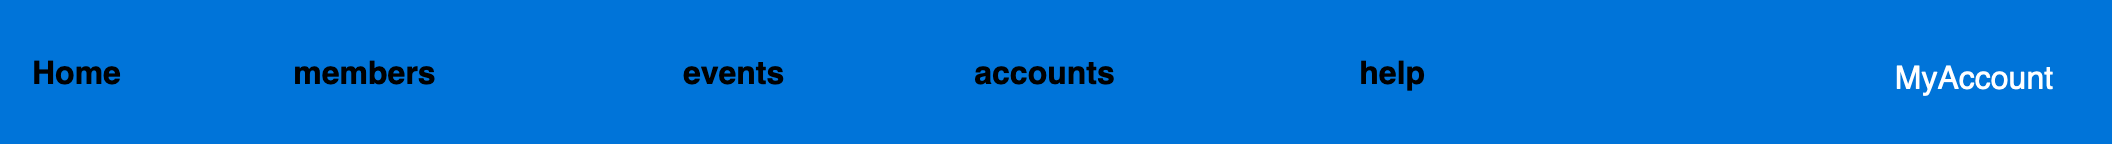
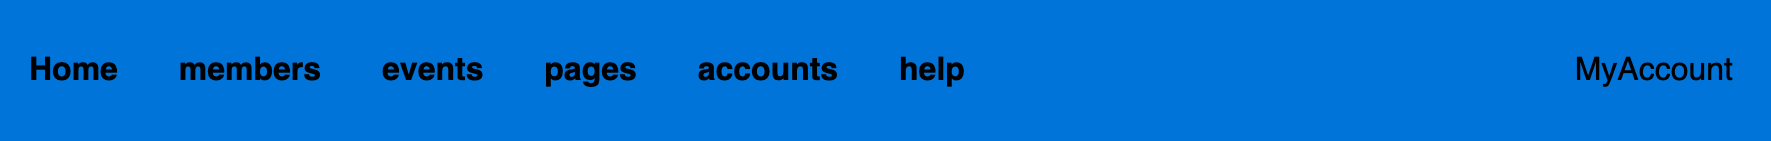
minor tweaks. Document Pages module

diff --git a/website.py b/website.py
@@ -97,15 +97,15 @@ def upcoming_events():
 		if event.AdCom_only and not (member and member.Access):
 			continue
 		attend = event_attend(event.id)
-		line = f"{event.DateTime.strftime('%A, %B %d ')} **[{event.Description}]({URL(f'event_page/{event.id}') if event.Details else event.Page})**"
+		line = f"{event.DateTime.strftime('%A, %B %d ')} **[{event.Description}]({URL(f'event_page/{event.id}') if event.Details else event.Page})**".strip()
 		if event.Booking_Closed<datetime.datetime.now(TIME_ZONE).replace(tzinfo=None):
 			if not attend:
-				line = f"{event.DateTime.strftime('%A, %B %d ')} **{event.Description}** *Save the Date*"
+				line = f"{event.DateTime.strftime('%A, %B %d ')} **{event.Description.strip()}** *Save the Date*"
 			else:
 				line += ' *Booking Closed, waitlisting*'
 		else:
 			url = URL(f"registration/{event.id}")
-			line+= f" [(register here)]({url})"
+			line+= f" register [here]({url})"
 			if event.Capacity and (attend or 0) >= event.Capacity:
 				line +=' *Sold Out, waitlisting*'
 		header = CAT(header, XML(markdown.markdown(line)[3:-4]+'<br>'))

diff --git a/utilities.py b/utilities.py
@@ -278,7 +278,7 @@ def pages_menu(forpage):
 	#build menu of pages for layout_public
 	#appropriate root level pages:
 	root = forpage.Root or forpage.id
-	pages = db(db.Pages.Parent==None).select(db.Pages.id, db.Pages.Page, db.Pages.Root, orderby=db.Pages.Modified)
+	pages = db(db.Pages.Parent==None).select(db.Pages.id, db.Pages.Page, db.Pages.Root, orderby=db.Pages.Root|db.Pages.Modified)
 	menu = ''
 	for page in pages:
 		if (page.id == root) or (page.Root == root):	

diff --git a/docs/index.md b/docs/index.md
@@ -1,35 +1,36 @@
 # Oxford/Cambridge Alumni Group Database - User Guide
 
-This database is accessed by alumni when registering for events, joining, renewing, or modifying any of their personal information or mailing list selections. Alumni will be using links on the web site or in email notices to register for events, join mailing lists or as members, and simply have to follow the instructions on the pages they visit.
+The OxCam web application implements both the public web site for an Oxford and/or Cambridge alumni group and an underlying database for membership data and other functions. Note that a group may elect to create a separate public facing website but still use this application for its other capabilities.
 
 This guide is intended for the volunteer organizers helping to run the organization whose interactions with the database are more complex. To return to this page from elsewhere in the guide click on the title.
 
 The database includes:
 
+- public website pages
 - all member information (including current and past members, and mailing list subscribers)
 - event information
 - records of all membership dues payments
 - records of event registrations
 - accounting information
 - the online payment mechanism
-- email and notice capability
+- email and notice capabilities
 
-Organizers are assigned different access rights depending on their need to modify the database. All have the ability to search/view member information, event registrations, etc.
+Organizers are assigned different access rights, ranging from read-only access to administrative capabilities, depending on their need to modify the database.
 
-Users are identified by email address. They login by specifying their email address, then clicking on a link containing a one-time security code sent to them to verify that they own the email address.
+Users (both organizers and members) are identified by email address. They login by specifying their email address, then clicking on a link (containing a one-time security code) sent to that email.
 
-The landing page of the database application is reached at, for example, [https://oxcamne.pythonanywhere.com/oxcam](https://oxcamne.pythonanywhere.com/oxcam) for the OxCamNE database hosted on PythonAnywhere and looks like:
+The landing page of the management portion of the application is reached at, for example, [https://oxcamne.pythonanywhere.com/oxcam](https://oxcamne.pythonanywhere.com/oxcam) for the OxCamNE database hosted on PythonAnywhere. This page can always be reached using the MyAccount button. This is used both by organizers and members, and looks like:
 
 ![index](images/index.png)
 
-The page banner for the Society is followed by a menu bar. Both the menu bar and the content depend on the user identified by the email address.
+The page banner for the Society is followed by a navigation bar. Both the navigation bar and the content depend on the user identified by the email address. For a regular member only the Home and MyAccount buttons are shown, and they will usually be using a link that takes them directly to a specific function, such as registering for an event, rather than landing here.
 
 The **Home** button links to the home page of the Society's public web site, and is always shown. Hovering over **MyAccount** produces a dropdown menu:
 
 - *MyAccount* returns from anywhere to this page
-- *Directory* takes you to the member directory
+- *Directory* leads to the member directory
 - *Logout* does what it says!
 
-The [**members**](members), [**events**,](events.md) [**accounts**](accounts.md), and **help** buttons are shown only to organizers of the group who have been granted database access rights, and lead to the corresponding modules of the application.
+The [**members**](members), [**events**](events.md), [**pages**](pages.md), [**accounts**](accounts.md), and **help** buttons are shown only to organizers of the group who have been granted database access rights, and lead to the corresponding modules of the application.
 
 If you are installing or supporting the database please see the [**Support Guide**](support.md).

diff --git a/docs/pages.md b/docs/pages.md
@@ -1,0 +1,21 @@
+# [Oxford/Cambridge Alumni Group Database](index.md)
+
+## Pages Page
+
+This grid is reached from 'Pages' button on the blue navigation bar. Initially it presents an unfiltered grid of all web pages in the database:
+
+![pages grid](images/pages.png)
+
+The **+New** button is used to create a new page.
+
+Multiple sites can be constructed in the database, though the example shows only one, the main public website 'home'. I will also be migrating the organizers' help site shortly. Note that these two web sites' addresses are configured in the settings_private.py file.
+
+When a page is viewed, the Nav Bar will show the corresponding root page followed by all other pages with the same root but no parent, in order most recently modified. Pages with a parent appear on a submenu which appears when the parent is hovered over. Submenus can be nested, and are displayed in the order the pages were most recently modified.
+
+If the 'Hide' column is ticked, the page will not appear on Nav Bar or submenus, presumably there is a link to it somewhere.
+
+If a 'Link' is shown, the page is located in an external site.
+
+'Views' shows the number of page views.
+
+Note that deleting a page will delete all subpages. Deleting a root page will delete the whole site!!

diff --git a/docs/pages_record.md b/docs/pages_record.md
@@ -1,0 +1,19 @@
+# [Oxford/Cambridge Alumni Group Database](index.md)
+
+## Pages Record
+
+This record represents a publicly displayable web page.
+
+This page is reached through the Edit button on an page row of the [Pages Page](pages.md):
+
+![Pages page](images/pages_record.png)
+
+The **back** link will take you back to the pages page.
+
+Similarly, the page's link is shown; it may be on an external site (specified in the **Link** field), or internal to the database (**Content** field of the pages record).
+
+The **Content** is written in Markdown, and typically also includes HTML elements.
+
+All the other fields are self explanatory or discussed on the [Pages Page](pages.md).
+
+There are links to Markdown documentation and to HTML documentation, specifically discussing the inclusion and formatting around images.
